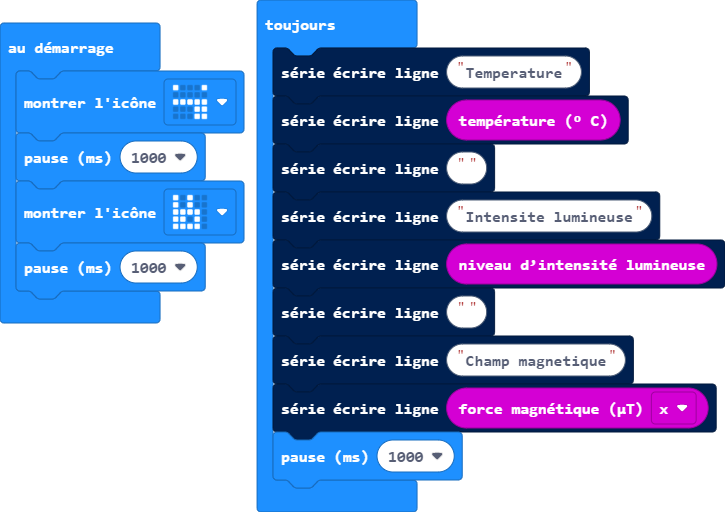
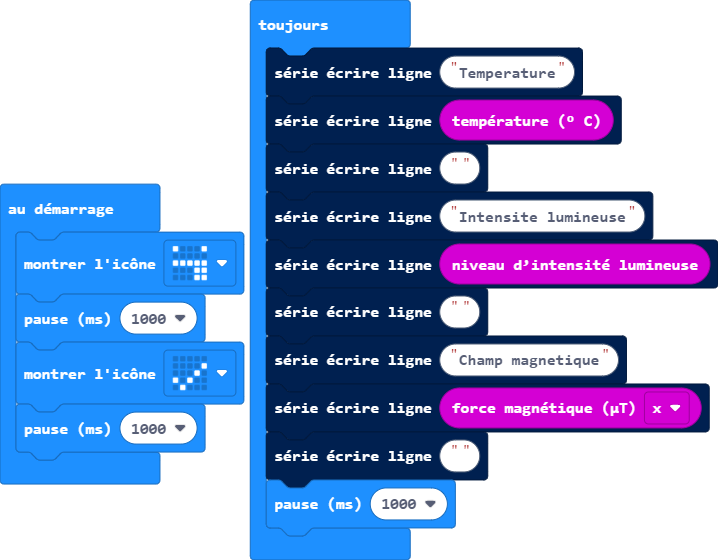
Mise à jour main.blocks, main.ts

diff --git a/main.ts b/main.ts
@@ -1,6 +1,6 @@
 basic.showIcon(IconNames.Silly)
 basic.pause(1000)
-basic.showIcon(IconNames.Rabbit)
+basic.showIcon(IconNames.Yes)
 basic.pause(1000)
 basic.forever(function () {
     serial.writeLine("Temperature")
@@ -11,5 +11,6 @@ basic.forever(function () {
     serial.writeLine("")
     serial.writeLine("Champ magnetique")
     serial.writeLine("" + (input.magneticForce(Dimension.X)))
+    serial.writeLine("")
     basic.pause(1000)
 })
